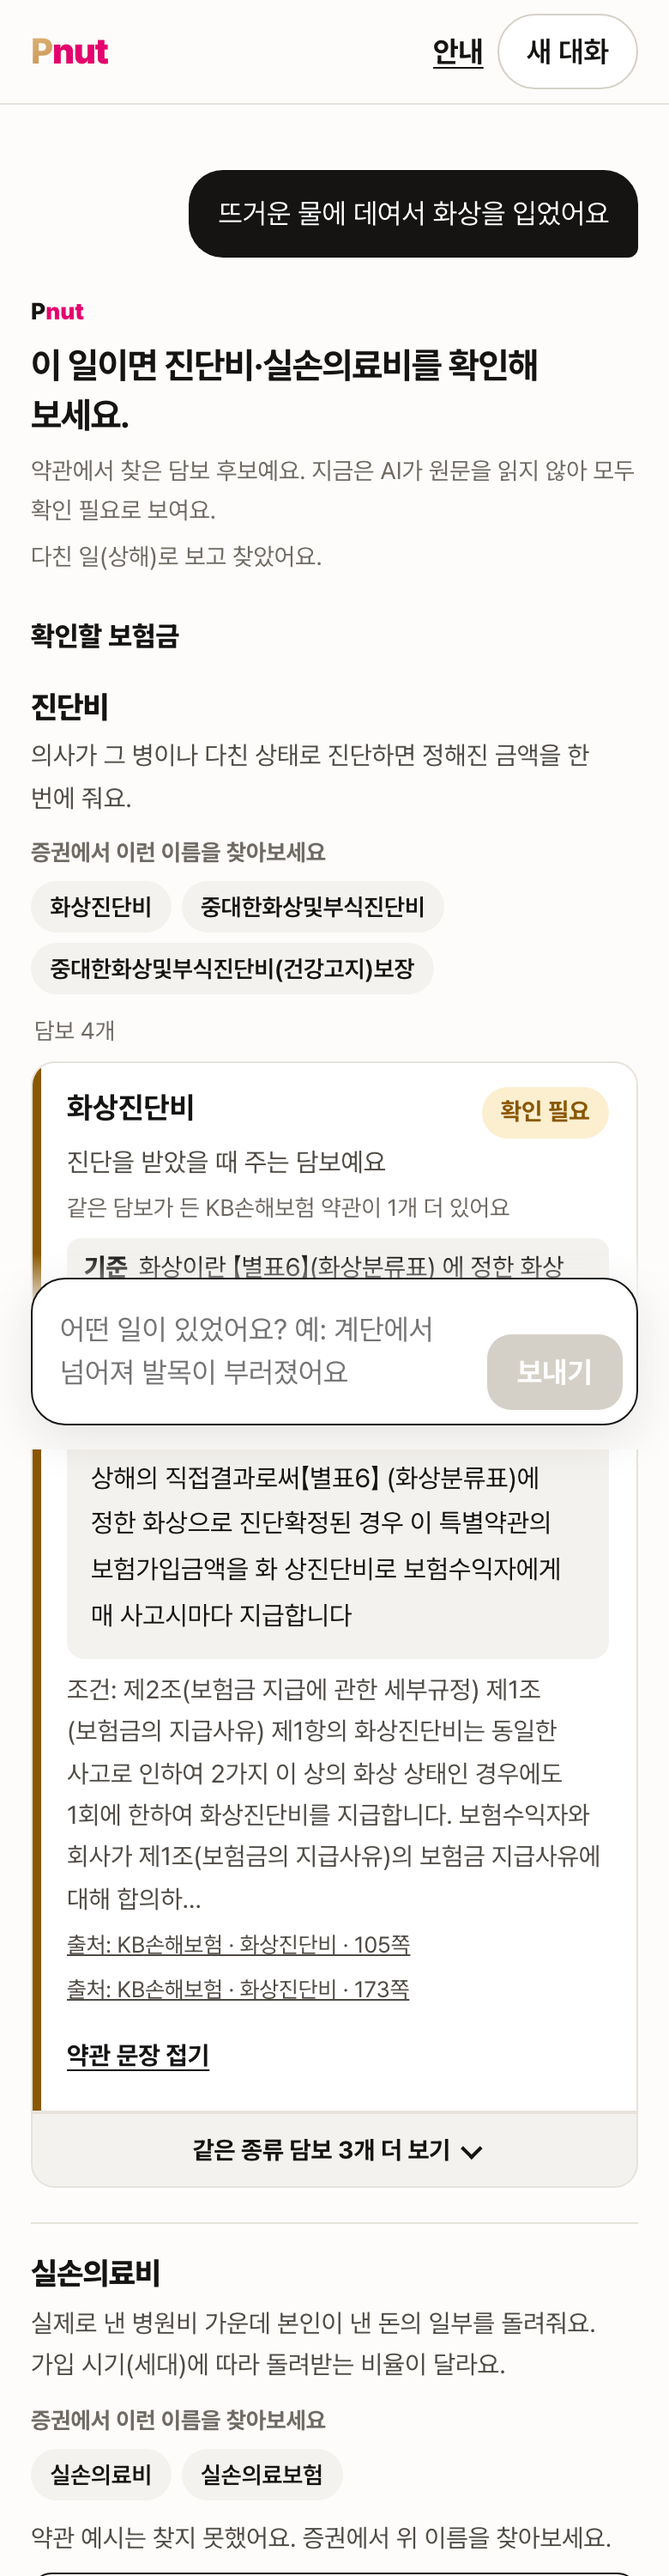
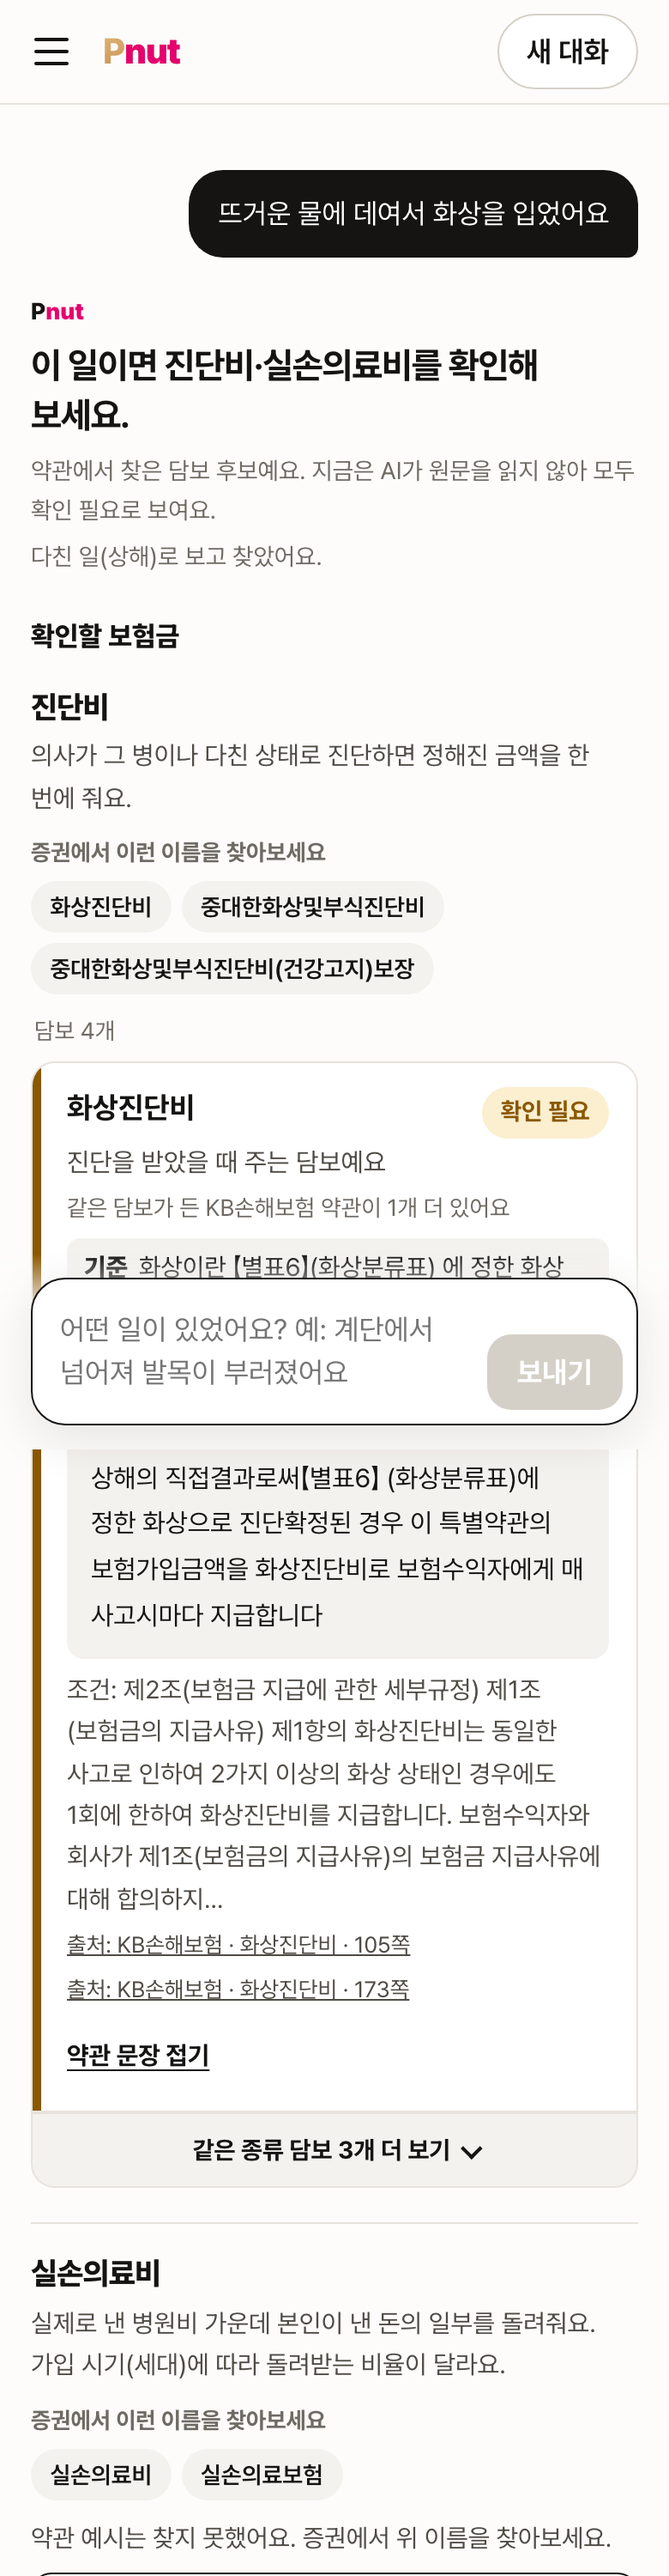
docs: 끊긴 낱말 잇기·배포 전 시험·삼선 메뉴 반영(foundshu-00047)
- 설계 판단 두 줄: 줄바꿈으로 끊긴 낱말을 빈도로 잇기, 색인 크기로 생긴 메모리 초과 장애와 배포 전 시험
- 화면 4장을 배포판과 같은 코드로 다시 찍고 해시·판·설명 갱신

diff --git a/README.md b/README.md
@@ -74,6 +74,8 @@ flowchart TD
 | 판단 목록이 코드에 흩어져 있었다 | 담보 순서, 일반어, 제외 표시, 되묻기 선택지를 데이터 파일로 분리하고 코드는 표만 적용한다 | 목록이 코드 안에 있으면 바꿀 때마다 코드를 고쳐야 한다 |
 | 질문 낱말 하나가 엉뚱한 특약을 첫 카드로 끌어왔다("어머니가 뇌경색으로 쓰러지셔서 2주 입원" → '2주' 낱말로 자동차사고상해진단(2주 이상)) | 숫자와 단위 낱말은 검색어에서 빼고, 답은 사건 → 질병/상해 → 큰 분류를 먼저 정한 뒤 그 분류 안에 담보를 보인다 | 가입 상황을 모르는 질문에서 담보 이름을 정확히 맞히는 것은 목표가 될 수 없다. 큰 분류는 수가 적어 규칙 표로 정하고 빠짐·엉뚱함을 잴 수 있다 |
 | 약관에 병 이름이 든 담보가 있으면 그 분류를 바로 '해당'으로 올렸다(디스크 진단비, 독감 항바이러스제 치료비 등 11개) | 진단비는 진단비 담보가 흔한 병만 '해당', 나머지는 '그 병의 진단비가 있는 보험이라면'으로 둔다. 치료비는 사용자가 말한 치료 낱말만 '해당'으로 본다 | 일부 상품에만 있는 담보까지 '해당'으로 올리면 엉뚱한 분류가 된다 |
+| 약관 PDF의 줄바꿈이 낱말 가운데 남아 "보험가입금액을 화 상진단비로"처럼 보였다 | 약관 전체에서 그 낱말이 줄 가운데 나온 횟수로 이을지 띄울지 정하고, 색인을 만들 때 한 번 잇는다 | 화면에서 줄바꿈을 빈칸으로 바꾸면 낱말이 쪼개지고, 모두 붙이면 띄어 써야 할 곳까지 붙는다. 끊긴 곳 680,481곳 중 372,912곳을 이었고, 무작위 100곳 표본에서 잘못 이은 곳은 1~2곳이었다 |
+| 색인을 고쳐 쓴 뒤 크기가 399MB에서 566MB로 늘어 배포판이 메모리 1GiB를 넘겼다(질문마다 503, 약 2~3분) | 바로 이전 리비전으로 되돌리고, FTS optimize와 VACUUM으로 390MB로 줄였다. 배포는 새 리비전을 트래픽 없이 올려 막힘·입장·질문 2개 시험을 통과할 때만 트래픽을 넘긴다 | 시험 없이 바로 트래픽을 넘기면 로컬 시험이 잡지 못한 클라우드 메모리 문제가 사용자에게 그대로 간다. 고장 난 리비전으로 이 시험을 돌려 503을 잡는 것을 확인했다 |
 | 학습용 질문 기록이 클라우드에서 남지 않았다 | 동의한 질문만 가려서, 질문 하나를 파일 하나로 저장소 버킷에 답을 보내기 전에 올린다. 버킷에는 365일 삭제 규칙을 건다 | 컨테이너 안 SQLite 파일은 요청이 없어 인스턴스가 0대로 줄면 사라졌다. SQLite 파일을 버킷에 붙여 쓰면 잠금 문제가 생긴다. 답을 보낸 뒤 올리면 Cloud Run이 CPU를 거의 멈춰 기록이 늦거나 빠질 수 있다 |
 
 ## 측정 결과

diff --git a/docs/screenshots.md b/docs/screenshots.md
@@ -1,10 +1,10 @@
 # 서비스 화면
 
-공개 시연판에 배포한 판(2026-11-12, foundshu-00042)과 같은 코드를 로컬에서 실행하고 예시 질문을 넣어 찍었다. 실제 고객 자료가 아니며, 이미지를 합성하거나 결과 문구를 바꾸지 않았다. 화면 아래의 입력 칸은 실제 화면처럼 답 위에 떠 있는 상태 그대로다. 질문 저장 동의 막대는 답을 가리지 않도록 '동의 안 함'을 눌러 닫은 뒤 찍었다. 화면별 SHA-256과 찍은 판은 [기록](../evidence/screenshots.json)에 있다.
+공개 시연판에 배포한 판(2026-11-12, foundshu-00047)과 같은 코드를 로컬에서 실행하고 예시 질문을 넣어 찍었다. 실제 고객 자료가 아니며, 이미지를 합성하거나 결과 문구를 바꾸지 않았다. 화면 아래의 입력 칸은 실제 화면처럼 답 위에 떠 있는 상태 그대로다. 질문 저장 동의 막대는 답을 가리지 않도록 '동의 안 함'을 눌러 닫은 뒤 찍었다. 화면별 SHA-256과 찍은 판은 [기록](../evidence/screenshots.json)에 있다.
 
 | 화면 | 넣은 질문 | 보여 주는 것 | 범위 |
 |---|---|---|---|
-| [소개](images/intro.png) | 없음 | 첫 화면 제목, 책 읽는 땅콩과 말풍선, 흐르는 예시 단추, 휴대폰 틀 안에 실제 답이 아래부터 쌓이는 화면(움직임이 끝난 뒤) | 데스크톱 1440px |
+| [소개](images/intro.png) | 없음 | 왼쪽 위 삼선 메뉴, 첫 화면 제목, 책 읽는 땅콩과 말풍선, 흐르는 예시 단추, 휴대폰 틀 안에 실제 답이 아래부터 쌓이는 화면(움직임이 끝난 뒤) | 데스크톱 1440px |
 | [화상 답](images/answer-burn.png) | 뜨거운 물에 데여서 화상을 입었어요 | 큰 분류 첫 줄, 진단비 칸의 대표 화상진단비, 약관 정의를 옮긴 '기준' 줄, 지급 조항, 출처 쪽수, 같은 종류 담보 목록 | 모바일 390px |
 | [묶음과 제외 대조](images/answer-exclusion.png) | 백내장 수술했어요 | 큰 분류 첫 줄, 질병 수술비 칸의 찾아볼 이름 예시와 수술비·종별 수술비 묶음, 실손 칸과 실손 계산 열기, '그랬다면' 줄, 이름에 '백내장 제외'가 붙은 담보를 뺐다는 안내, 수술 종 분류 | 모바일 390px |
 | [되묻기](images/clarify.png) | 보험금을 적게 받았어요 | 경위가 없어 대표 사유 네 가지를 선택지로 보임 | 모바일 390px |
